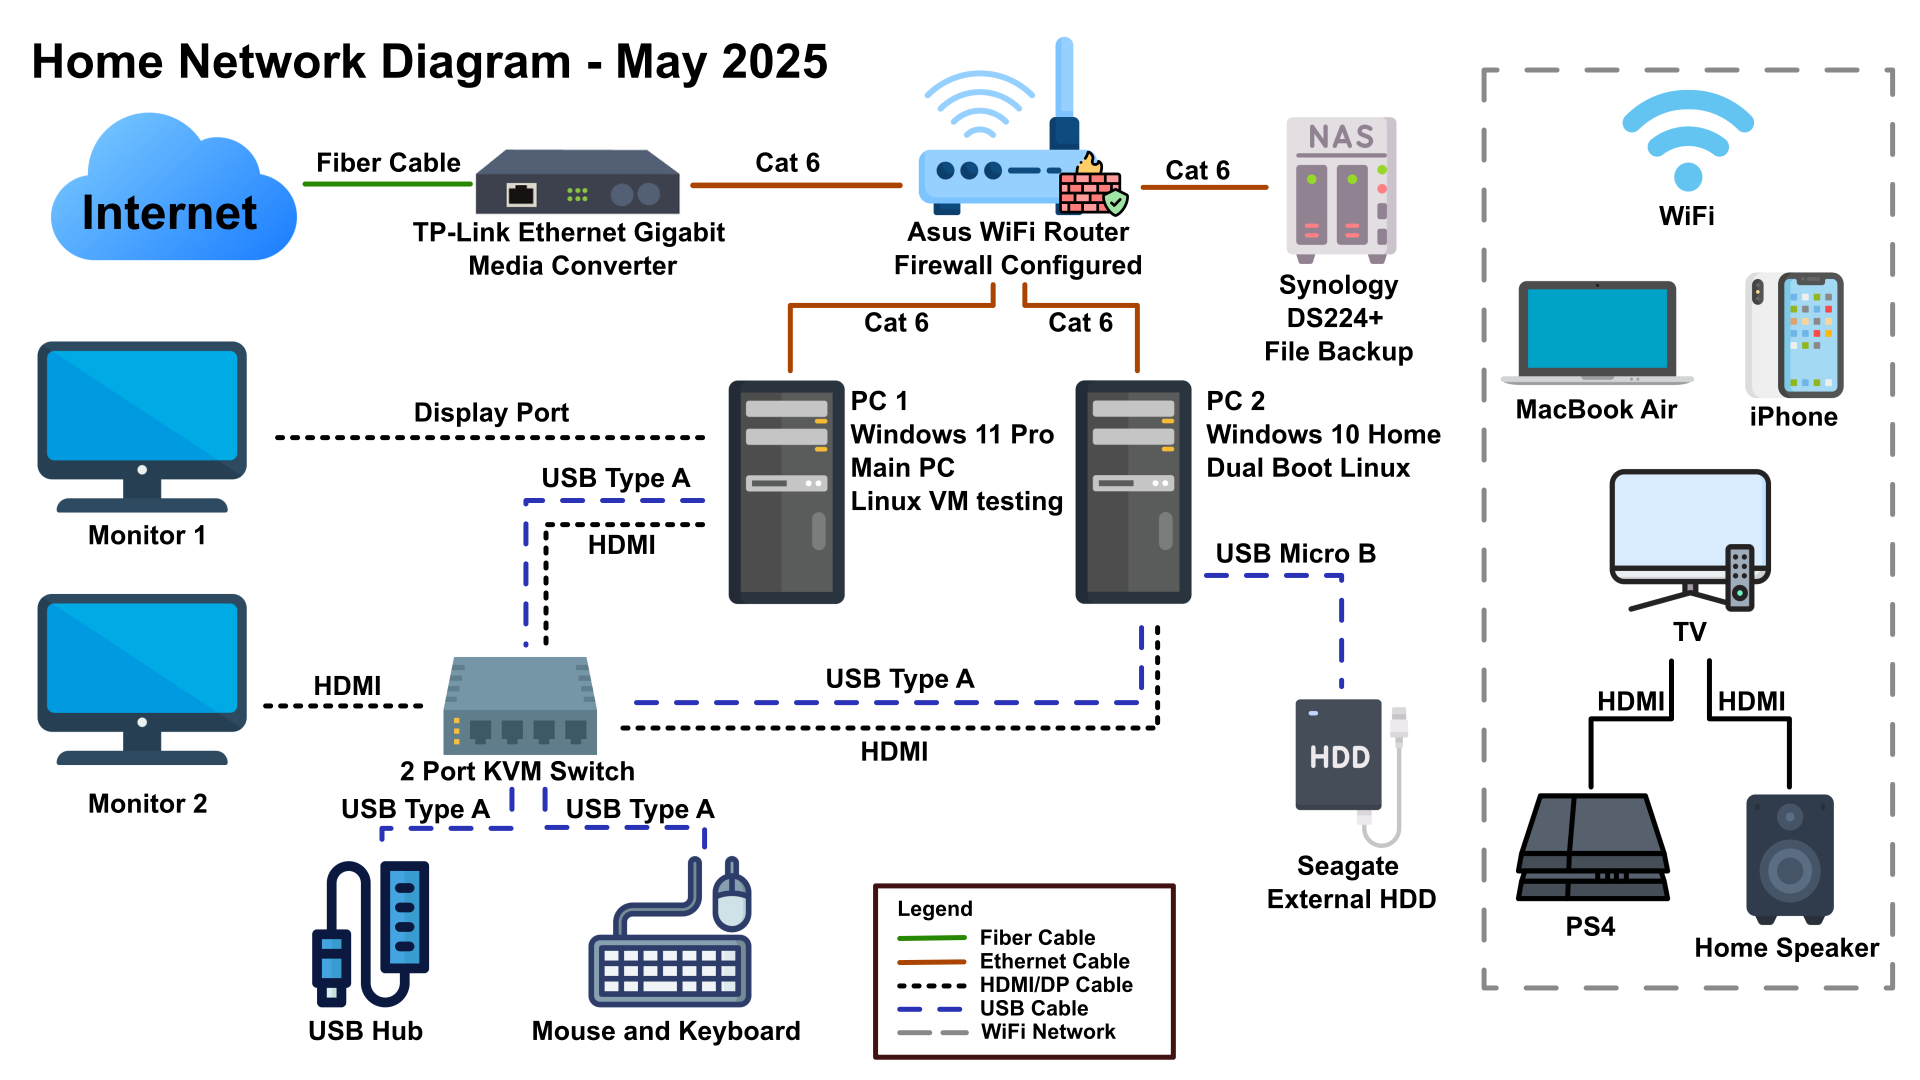
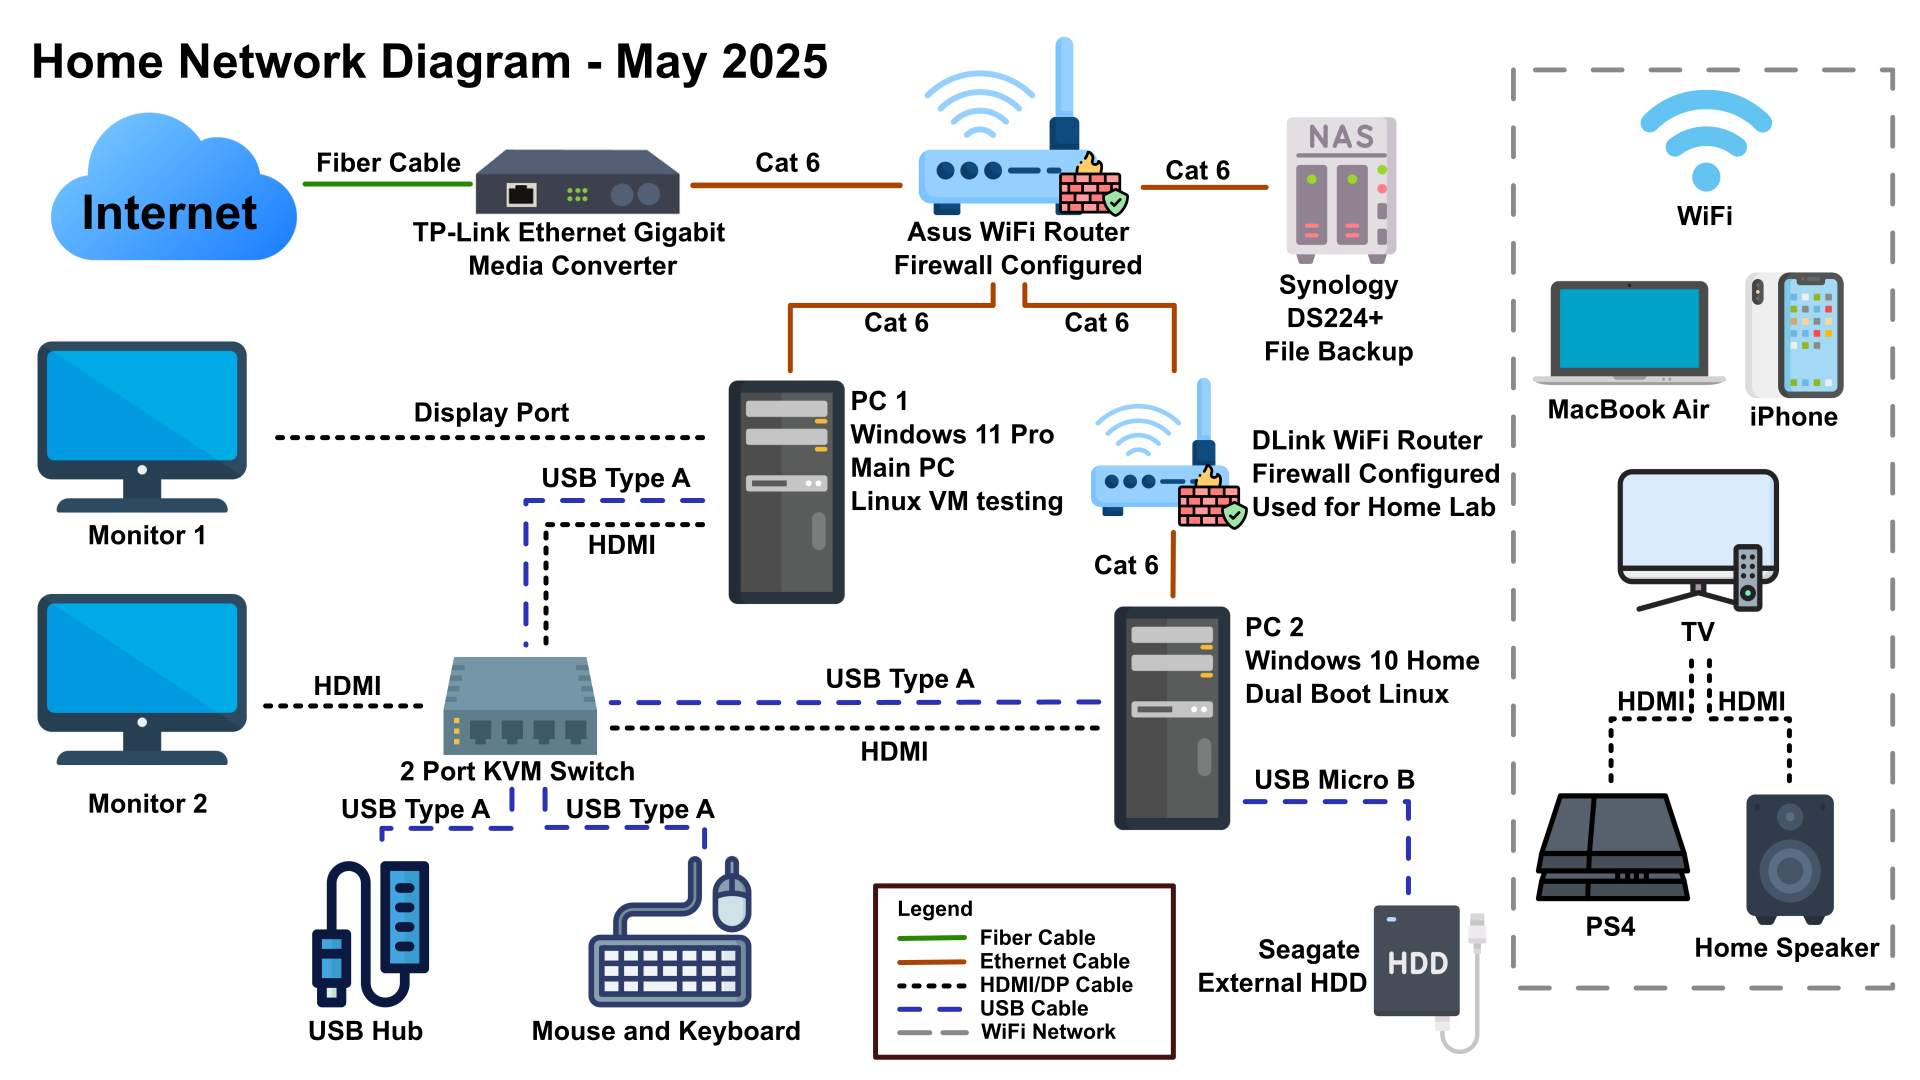
Updated network diagram and readme

diff --git a/README.md b/README.md
@@ -6,13 +6,13 @@ This diagram outlines my current home network and workstation setup. My goal is 
 
 ## 🛜 Network Overview
 
-My home network consists of both wired and wireless components. The network is managed through an ASUS Wi-Fi router with firewall enabled. The Asus router receives its uplink from a TP-Link Ethernet Gigabit Media Converter (ISP-provided), which is connected to a fiber network.
+My home network consists of both wired and wireless components. The network is managed through an ASUS Wi-Fi router with firewall enabled. The Asus router receives its uplink from a TP-Link Ethernet Gigabit Media Converter (ISP-provided), which is connected to a fiber network. A secondary D-Link Wi-Fi Router is configured and segmented for home lab use, enhancing security and enabling testing in an isolated environment.
 
 ### 🔗 Wired Infrastructure
 - **PC 1 – Windows 11 Pro**  
   Primary admin workstation for daily operations, system configuration, and running Linux VMs (e.g., Ubuntu Server, CentOS 9) for testing.
 - **PC 2 – Windows 10 Home (Dual Boot Linux)**  
-  Used for Linux practice, OS deployment testing, and backup system management.
+  Connected to the secondary router (D-Link), used as a lab machine for Linux testing, OS configuration, and cross-segment communication experiments.
 - **Synology DS224+ NAS**  
   Configured for file backup, data redundancy, and centralized storage management using SMB/AFP protocols.
 
@@ -21,7 +21,7 @@ My home network consists of both wired and wireless components. The network is m
   Manages keyboard, mouse, and dual-display setup between both PCs.
   Using the KVM switch allows me to switch between PCs while I practice and test my home lab environment. 
 - **USB Hub, External HDD (Seagate)**  
-  For expanded I/O to support backup operations and connectivity with additional IoT or USB-powered devices.
+  For expanded I/O to support backup operations and file organizations.
 
 ### 📡 Wireless Devices 
 - **MacBook Air, iPhone**  
@@ -29,31 +29,15 @@ My home network consists of both wired and wireless components. The network is m
 - **Smart TV, Speaker, PS4**  
   Consumer devices connected to the network for daily use. While they are not part of the lab environment, they can be referenced for basic network visibility, segmentation, or bandwidth management if needed.
 
-## 🧵 Cable & Media Legend
-The diagram uses visual indicators for clarity:
-- 🟢 **Fiber Cable** – ISP uplink
-- 🟤 **Cat 6 Ethernet** – Wired LAN
-- ⚫ **HDMI / DisplayPort** – Video signal
-- 🔵 **USB A / Micro B** – Peripheral connection
-- ▫ **Wi-Fi** – Wireless network
-
 ## 🔐 Network Services & Security
-- **Firewall Enabled** – ASUS router configured for SPI/NAT protection
+- **ASUS Router (Primary)** – Configured with SPI/NAT firewall and DHCP enabled
+- **D-Link Router (Secondary)** – Lab-isolated with its own firewall
 - **DHCP Server** – Internal IP distribution
 - **Static IP Mapping** – Reserved IP for NAS and lab VMs
 - **VM Testing** – Linux VMs launched via VirtualBox for patch testing, automation scripts, and basic network segmentation trials
-
 ---
 
-### ✅ Key System Administrator Skills Demonstrated
-- Small network topology design and documentation
-- Router and firewall configuration
-- OS deployment and dual boot setup
-- Shared resource access and storage centralization (NAS)
-- KVM switch and peripheral management
-- Cross-platform device integration (Windows, macOS, Linux)
-- Basic virtualization and lab automation workflows
+### Conclusion
 
----
+My goal for setting up this network is to practice core system administration skills. This includes network design with segmented routers, cross-platform system provisioning, firewall and DHCP configuration on consumer-grade hardware, shared resource management using a NAS and KVM switch, and peripheral integration. The environment supports lab testing through isolated network segments and VM deployment, enabling patch testing, basic service hosting (e.g., SMB), and system hardening. These configurations help me better understand networking fundamentals and expand my knowledge by simulating real-world administrative responsibilities in a secure and organized environment.
 
-This hands-on environment not only supports personal projects, but also simulates real-world sysadmin scenarios in a structured and maintainable way.
